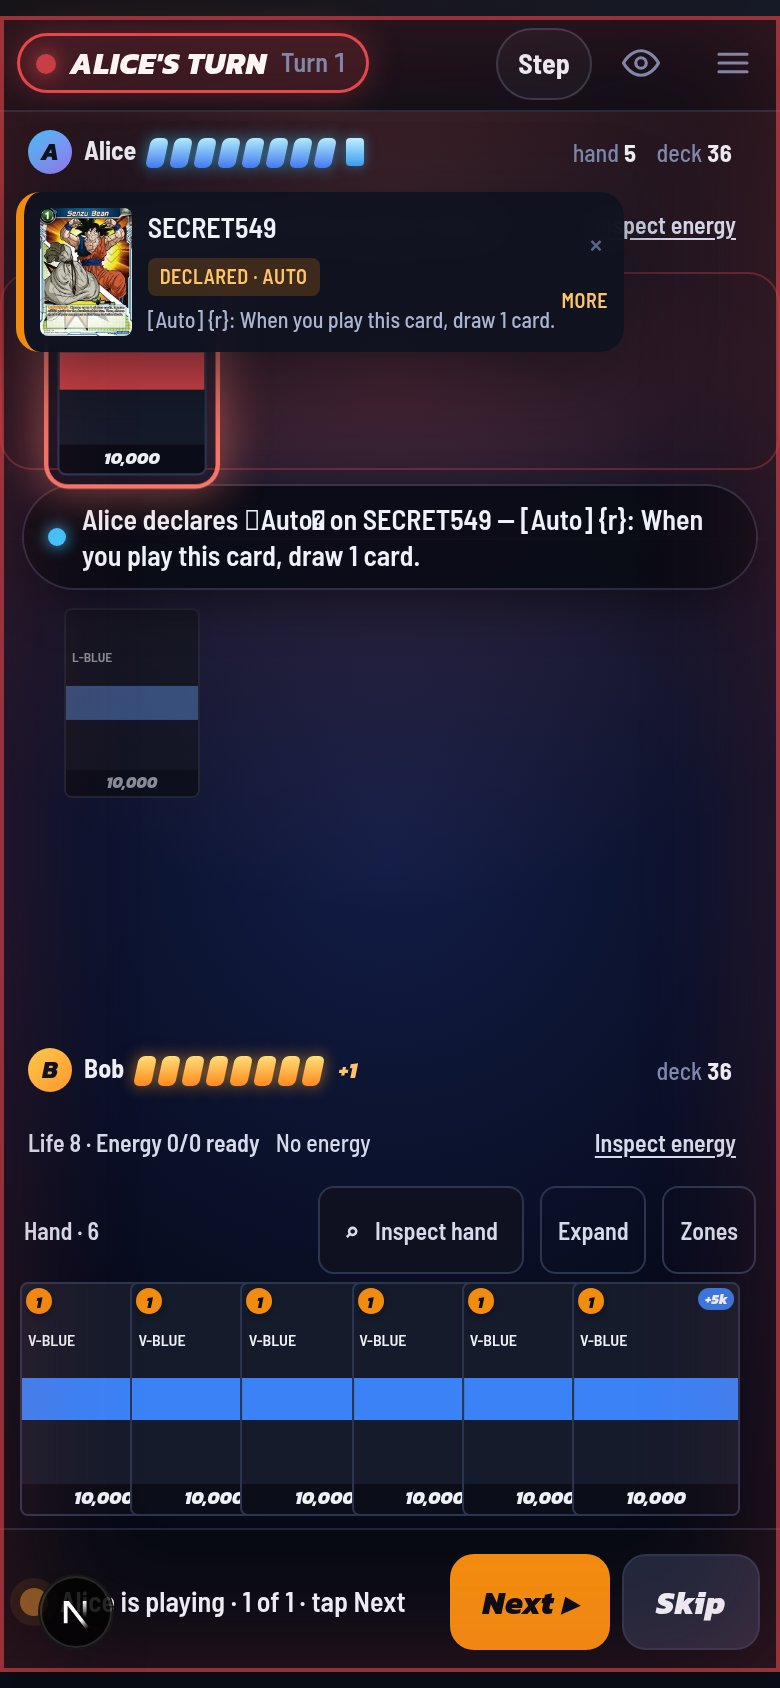
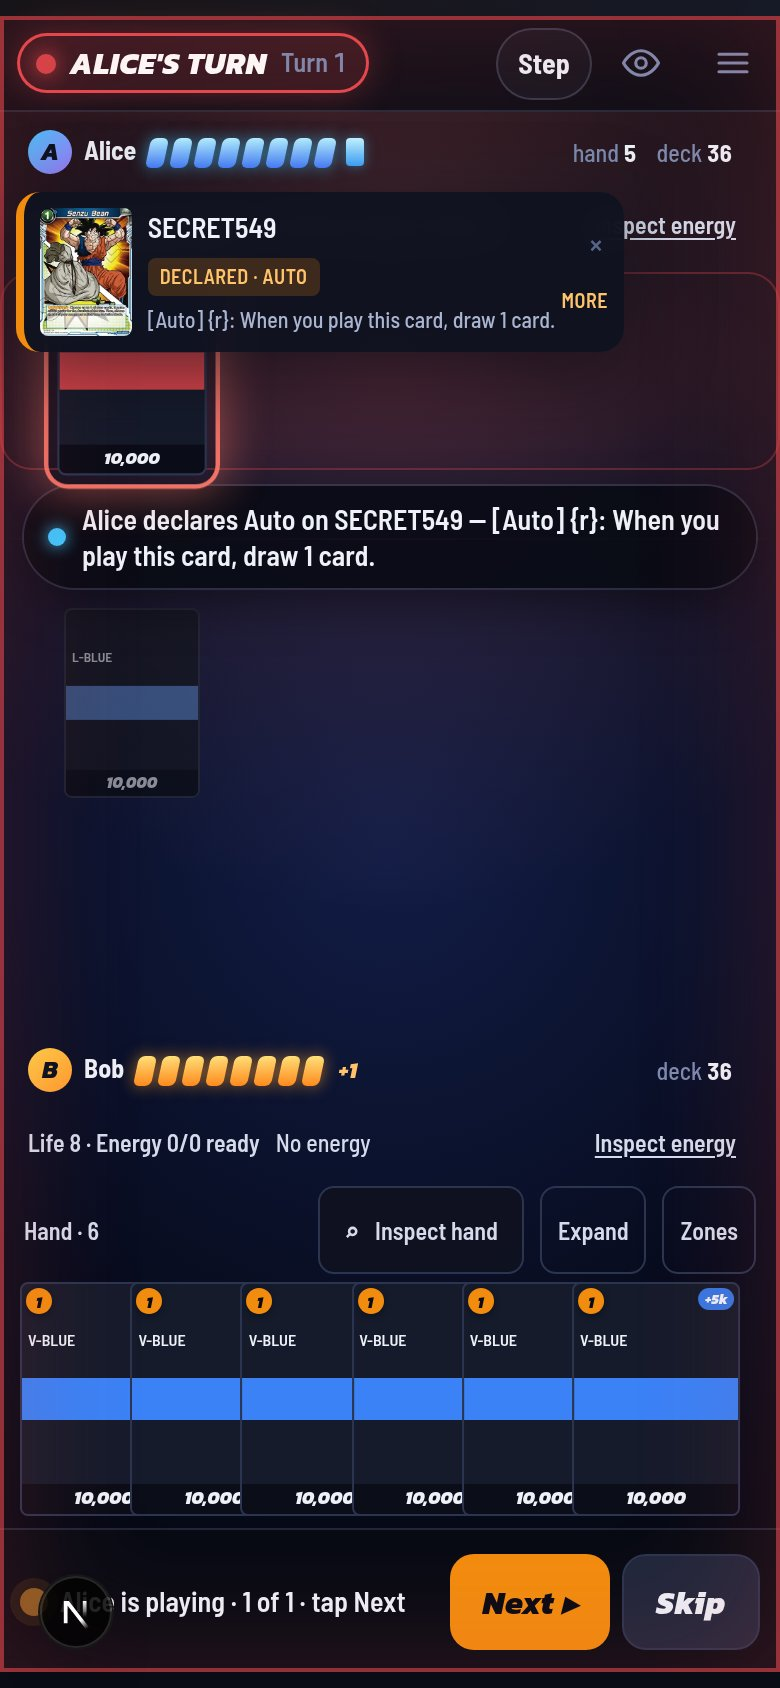
Arena #549: document and verify priced secret declarations

Changed region(s): [[0.0923, 0.2773, 0.5846, 0.3389], [0.6154, 0.2773, 0.9231, 0.3389]]

diff --git a/src/lib/arena/glossary.ts b/src/lib/arena/glossary.ts
@@ -668,7 +668,7 @@ export const SKILL_TYPES: Record<Exclude<SkillKind, "keyword">, SkillTypeDoc> = 
     tag: "[Auto]",
     section: "1-5-6",
     meaning: "Happens on its own when the printed moment occurs — when the card is played, attacks, is KO'd, and so on.",
-    engine: "The trigger puts the skill in pending for a checkpoint. The rules engine asks whether to pay a necessary cost (9-6-4), including printed energy, markers, Burst, Spirit Boost, supported action prices and energy X. Payment completes once before the effect; decline and unaffordable payment cancel activation. A satisfied condition alone or a public-area cost-free Auto is compulsory. For a cost-free [Auto] whose source is still in a secret area, its master may declare it, revealing only that card for the current activation, or leave it undeclared without announcing a skill (9-6-3-1-1). A declared source becomes secret again on movement, concealment, shuffle, or the next unrelated action; a saved in-progress choice retains only its own declaration. Priced secret-area declaration remains open, and captured keyword hooks are not optional [Auto] declarations. Source, master, event subject, chosen price targets and X survive payment prompts and reload. Unsupported price instructions interrupt explicitly. At a checkpoint the turn player chooses among their pending skills before either cost or effect begins (9-6-3); the other player chooses when no turn-player skill remains. The selected source, skill, master and event subject are captured privately through JSON reload, and a changed queue or turn rejects the answer as stale.",
+    engine: "The trigger puts the skill in pending for a checkpoint. The rules engine asks whether to pay a necessary cost (9-6-4), including printed energy, markers, Burst, Spirit Boost, supported action prices and energy X. Payment completes once before the effect; decline and unaffordable payment cancel activation. A satisfied condition alone or a public-area cost-free Auto is compulsory. For an [Auto] whose source is still in a secret area, its master may leave it undeclared without announcing a skill (9-6-3-1-1). Declaring a cost-free Auto activates it; declaring a priced Auto reveals only that source before the separate price decision, and it activates only after full payment (9-6-3-1, 9-6-4). A declared source becomes secret again on movement, concealment, shuffle, or the next unrelated action; a saved in-progress price choice retains only its own declaration. Captured keyword hooks are not optional [Auto] declarations. Source, master, event subject, chosen price targets and X survive payment prompts and reload. Unsupported price instructions interrupt explicitly. At a checkpoint the turn player chooses among their pending skills before either cost or effect begins (9-6-3); the other player chooses when no turn-player skill remains. The selected source, skill, master and event subject are captured privately through JSON reload, and a changed queue or turn rejects the answer as stale.",
   },
   "activate:main": {
     tag: "[Activate: Main]",

diff --git a/src/lib/arena/capability-inventory.ts b/src/lib/arena/capability-inventory.ts
@@ -48,8 +48,8 @@ export const CAPABILITY_EVIDENCE: readonly CapabilityEvidence[] = [
     evidence: "runtime-scenario",
     citation: "9-6-4; 5-8-2-2; 20-5",
     ownerIssue: 549,
-    proof: "scripts/verify/compiler.ts — AUTOCOST paid/declined; scripts/verify/auto-costs-549.ts — full action/resource costs, X, actual play-triggered pending selection, turn-player priority, reload, stale and atomic rejection; scripts/verify/secret-auto-549.ts and arena-secret-auto-db.mts — cost-free secret declaration/decline, both-viewer masking and persisted silent decline",
-    detail: "Supported orb/action/X prices complete before the effect; public-area condition-only Autos remain compulsory. Players choose among their own pending skills with turn-player priority and captured queue binding. A cost-free Auto still in a secret area may be declared with its own card revealed for the activation, or left undeclared without a public skill or log line; movement, concealment, shuffle and a later action revoke the transient reveal. Priced secret-area declaration remains open. The instruction whitelist and bounded search interrupt explicitly; general binding remains #550 and broader price coverage remains #549.",
+    proof: "scripts/verify/compiler.ts — AUTOCOST paid/declined; scripts/verify/auto-costs-549.ts — full action/resource costs, X, actual play-triggered pending selection, turn-player priority, reload, stale and atomic rejection; scripts/verify/secret-auto-549.ts and arena-secret-auto-db.mts — cost-free secret declaration/decline and persisted masking; scripts/verify/priced-secret-auto-549.ts and arena-priced-secret-auto-db.mts — priced secret declaration distinct from activation, paid/declined/unpayable outcomes, saved continuation, two-viewer masking and persisted silent decline; docs/arena-backlog/evidence/549-priced-secret — synthetic browser presentation at 390px/1440px in both skins",
+    detail: "Supported orb/action/X prices complete before the effect; public-area condition-only Autos remain compulsory. Players choose among their own pending skills with turn-player priority and captured queue binding. A cost-free or priced Auto still in a secret area may be left undeclared silently. Declaring a priced Auto reveals only its source before the price decision; it activates only after full payment, and a declined or unpayable cost never fires. The transient reveal survives the exact valid saved price continuation, then movement, concealment, shuffle or a later unrelated action revokes it. Captured keyword hooks are excluded. The instruction whitelist and bounded search interrupt explicitly; general binding remains #550 and broader price coverage remains #549.",
   },
   {
     id: "arena-zero-power-rule-processing",

diff --git a/scripts/verify-arena.ts b/scripts/verify-arena.ts
@@ -52,7 +52,7 @@ const STILL_ON_THE_ORACLE: Record<string, string> = {
   vm: "compares the rules engine with the legacy engine call for call (about 130 legacy calls in 4,900 lines); each comparison is still to become a checked-in expectation",
 };
 
-const SUITES = ["outcomes", "text", "setup", "battles", "compiler", "keywords", "hidden", "while-source", "warp", "next-activation", "taxes", "readings", "readings-571", "hand-combo-572", "combo-entry-672", "grouped-readings-573", "duration-shuffle-574", "free-extra-680", "wordings", "faceup-life-556", "workflow", "contract", "deck-api", "language", "lang", "describe", "rulesets", "static-layers-553", "board-words", "primer", "game-page", "gameplan-570", "probe", "ai-vm", "vm", "rule-processing", "engine-default", "poll-schedule", "narration", "heroic-554", "z-energy-combo-551", "aegis-555", "auto-costs-549", "secret-auto-549", "ability-snapshot-558", "aegis-cost-order-595", "abilities-now-561", "battle-stakes-562", "original-colors-597", "effective-payment-colours-626", "hidden-mode-projection-626", "public-zone-inspection-563", "revive-cost-order-624", "granted-heroic-602"];
+const SUITES = ["outcomes", "text", "setup", "battles", "compiler", "keywords", "hidden", "while-source", "warp", "next-activation", "taxes", "readings", "readings-571", "hand-combo-572", "combo-entry-672", "grouped-readings-573", "duration-shuffle-574", "free-extra-680", "wordings", "faceup-life-556", "workflow", "contract", "deck-api", "language", "lang", "describe", "rulesets", "static-layers-553", "board-words", "primer", "game-page", "gameplan-570", "probe", "ai-vm", "vm", "rule-processing", "engine-default", "poll-schedule", "narration", "heroic-554", "z-energy-combo-551", "aegis-555", "auto-costs-549", "secret-auto-549", "priced-secret-auto-549", "ability-snapshot-558", "aegis-cost-order-595", "abilities-now-561", "battle-stakes-562", "original-colors-597", "effective-payment-colours-626", "hidden-mode-projection-626", "public-zone-inspection-563", "revive-cost-order-624", "granted-heroic-602"];
 
 // A plain `.ts` file runs as CJS under `tsx`, which does not allow top-level
 // `await` — so the loop is a function `npm test`/`npm run test:rules` waits on

diff --git a/scripts/verify/priced-secret-auto-549.ts b/scripts/verify/priced-secret-auto-549.ts
@@ -121,7 +121,9 @@ function skillCount(events: GameEvent[], card: string): number { return events.f
     assert.ok(said && said.t === "autoDeclared");
     const publicDeclared: Beat = said;
     assert.equal(Object.hasOwn(publicDeclared, "revealEpoch"), false, "both viewers receive a valid declaration beat without the private epoch");
-    assert.match(narrate(said, { viewer, them: "Opponent", art: shown.beats?.art ?? {}, ownerOf: () => "p1" }) ?? "", /declare.*Auto/i);
+    const declarationLine = narrate(said, { viewer, them: "Opponent", art: shown.beats?.art ?? {}, ownerOf: () => "p1" }) ?? "";
+    assert.match(declarationLine, /declare(?:s)? Auto on PRICE549/i);
+    assert.ok(!declarationLine.includes("《") && !declarationLine.includes("》"));
     assert.equal(battleLink(said, true), null, "a declaration does not count as a battle trigger");
     assert.ok(msFor(said) > 0);
   }

diff --git a/src/lib/arena/narration.ts b/src/lib/arena/narration.ts
@@ -178,7 +178,7 @@ function sentence(b: Beat, n: Narrator, words: BoardWords, full: boolean): strin
       if (!n.art[b.card]) return `${who(b.owner, "declare", "declares")} a skill.`;
       const clause = b.text.replace(/\s+/g, " ").trim().replace(/\.$/, "");
       const short = clause.length > 90 ? `${clause.slice(0, 88)}…` : clause;
-      return `${who(b.owner, "declare", "declares")} 《${b.label}》 on ${name(b.card)} — ${short}.`;
+      return `${who(b.owner, "declare", "declares")} ${b.label} on ${name(b.card)} — ${short}.`;
     }
     case "skill": {
       // `maskBeats` blanks a skill whose card the viewer may not see (#463):

diff --git a/docs/arena-backlog/pv-r02.md b/docs/arena-backlog/pv-r02.md
@@ -29,9 +29,9 @@ touches: src/lib/arena/vm/flow.ts, src/lib/arena/vm/costs.ts, src/lib/arena/vm/s
 
 
 **Delivery status.** Partial delivery; #549 remains open. The supported cost paths and
-cost-free secret-area declaration below have fixed local scenarios. Priced secret-area
-declaration, other action-price instructions and the bounded search limit remain reachable
-engine limitations owned by #549, so this increment does not claim the entire issue acceptance.
+cost-free and priced secret-area declaration below have fixed local scenarios. Other
+action-price instructions and the bounded search limit remain reachable engine
+limitations owned by #549, so this increment does not claim the entire issue acceptance.
 
 **Rule-grounded behavior (#549).** Manual 9-6-4 permits paying or declining any necessary
 Auto skill cost, including printed energy and action costs. A condition that is already true
@@ -68,19 +68,35 @@ later actions and a new occurrence revoke an older declaration's viewer authorit
 wrong actor and stale revision reject atomically, supplied table talk on a private
 decline is omitted from both viewers' session log, and ordinary later talk still logs.
 
+`scripts/verify/priced-secret-auto-549.ts` asserts that a priced secret-area Auto
+may be left undeclared silently or declared before payment, with a declaration event
+that does not count as a fired skill. Supported orb and action prices pay once; declined
+or unpayable prices never activate or draw. Exact source, skill, trigger and private
+reveal epoch survive price prompts and JSON reload; wrong-actor/stale answers reject
+without mutation, and a later action or duplicate occurrence cannot reuse an older
+declaration. `scripts/verify/arena-priced-secret-auto-db.mts` checks persisted
+wrong-actor/stale CAS, both viewers' scoped declaration art and text, no private key
+in public snapshots, silent decline, and no saved log disclosure after concealment.
+The browser proof in `docs/arena-backlog/evidence/549-priced-secret` uses a synthetic
+priced Auto and a portable artwork stand-in; it checks the distinct declaration and
+activation labels and later masking at 390px and 1440px in both skins through a
+mocked API poll of real engine snapshots. No printed priced-secret card is claimed.
+
 `scripts/verify/compiler.ts` independently asserts AUTOCOST pays exactly one additional
 energy and draws two, while decline pays nothing further. No compiler reading is changed.
 
 **Remaining boundaries.** A player now chooses among their own simultaneous pending skills
 at a checkpoint (9-6-3), with the turn player's pending skills taking priority. A
-cost-free secret-area Auto may be left undeclared without telling the opponent; its
-selection menu is visible only to the deciding player. Priced secret-area declaration
-and keyword-hook applicability are not delivered by this increment. Supported action
+secret-area Auto, whether cost-free or priced, may be left undeclared without telling
+the opponent; its selection menu is visible only to the deciding player. Captured
+keyword hooks remain outside this optional [Auto] declaration path. Supported action
 prices use choose/discard/mill/switchMode/hidden/moveTo/removeMarker; unimplemented instructions
 and a full-price choice search exceeding 2,000 visited states produce an explicit typed
 interruption instead of free resolution or a false affordability claim. This Auto-specific
-continuation does not deliver #550's broader Activate/cross-skill binding work. No UI
-changes, dependencies or production/database writes.
+continuation does not deliver #550's broader Activate/cross-skill binding work. The
+priced secret browser and persisted proofs use synthetic records; they do not establish
+that a particular printed card has this price/source combination. No dependencies or
+production/database writes.
 
 **Owner-run verification.** Catalog reading snapshots require the deckplanet endpoint in this
 environment; the baseline attempt failed DNS lookup (`EAI_AGAIN api.deckplanet.net`).

diff --git a/docs/arena-capability-inventory.md b/docs/arena-capability-inventory.md
@@ -9,7 +9,7 @@ A status applies only to the named behavior and proof below. **Supported** means
 | Stable ID | Runtime status | Narrow behavior / test lane | Rule/source citation | Owner / delivery | Evidence in this tree |
 |---|---|---|---|---|---|
 | `arena-skill-unread-referee` | Supported | An unread due skill explicitly interrupts the game | Rule text ingestion and resolution boundary (`src/lib/arena/vm/flow.ts`) | [#544](https://github.com/uhtred1986-lab/trading-card-management/issues/544) | scripts/verify/compiler.ts — unread effect with referee context; scripts/verify/outcomes.ts — false condition, typed outcome, archive and privacy |
-| `arena-auto-own-cost` | Supported | A triggered Auto offers pay/decline and resolves its supported full cost | 9-6-4; 5-8-2-2; 20-5 | [#549](https://github.com/uhtred1986-lab/trading-card-management/issues/549) | scripts/verify/compiler.ts — AUTOCOST paid/declined; scripts/verify/auto-costs-549.ts — full action/resource costs, X, actual play-triggered pending selection, turn-player priority, reload, stale and atomic rejection; scripts/verify/secret-auto-549.ts and arena-secret-auto-db.mts — cost-free secret declaration/decline, both-viewer masking and persisted silent decline |
+| `arena-auto-own-cost` | Supported | A triggered Auto offers pay/decline and resolves its supported full cost | 9-6-4; 5-8-2-2; 20-5 | [#549](https://github.com/uhtred1986-lab/trading-card-management/issues/549) | scripts/verify/compiler.ts — AUTOCOST paid/declined; scripts/verify/auto-costs-549.ts — full action/resource costs, X, actual play-triggered pending selection, turn-player priority, reload, stale and atomic rejection; scripts/verify/secret-auto-549.ts and arena-secret-auto-db.mts — cost-free secret declaration/decline and persisted masking; scripts/verify/priced-secret-auto-549.ts and arena-priced-secret-auto-db.mts — priced secret declaration distinct from activation, paid/declined/unpayable outcomes, saved continuation, two-viewer masking and persisted silent decline; docs/arena-backlog/evidence/549-priced-secret — synthetic browser presentation at 390px/1440px in both skins |
 | `arena-zero-power-rule-processing` | Supported | A Battle Card at zero or less power is processed | 21-6; `contract/probe-rules-parity.json` rule-processing cause | [#548](https://github.com/uhtred1986-lab/trading-card-management/issues/548) | scripts/verify/compiler.ts — active TOUGH assertion; scripts/verify/rule-processing.ts — simultaneous processing, replacement choices and reload |
 | `arena-life-cost-damage-statistics` | Supported | Life paid as a cost is distinguished from damage | 1-13-2; `engines.ts` damageTaken contract | [#557](https://github.com/uhtred1986-lab/trading-card-management/issues/557) | scripts/verify/compiler.ts — E-LIFE life-cost scenario; scripts/verify/damage-statistics-557.mts — cost 1 versus event damage 2, skill damage, reload, old save and end screen; scripts/verify/arena-damage-statistics-db.mts — saved revision, stale CAS, duplicate request and both seat views |
 | `arena-static-negate-keyword` | Supported | A Permanent negates a keyword | 9-1-5 | [#553](https://github.com/uhtred1986-lab/trading-card-management/issues/553) | scripts/verify/static-layers-553.ts; scripts/verify/compiler.ts — named keyword suppression and grants |
